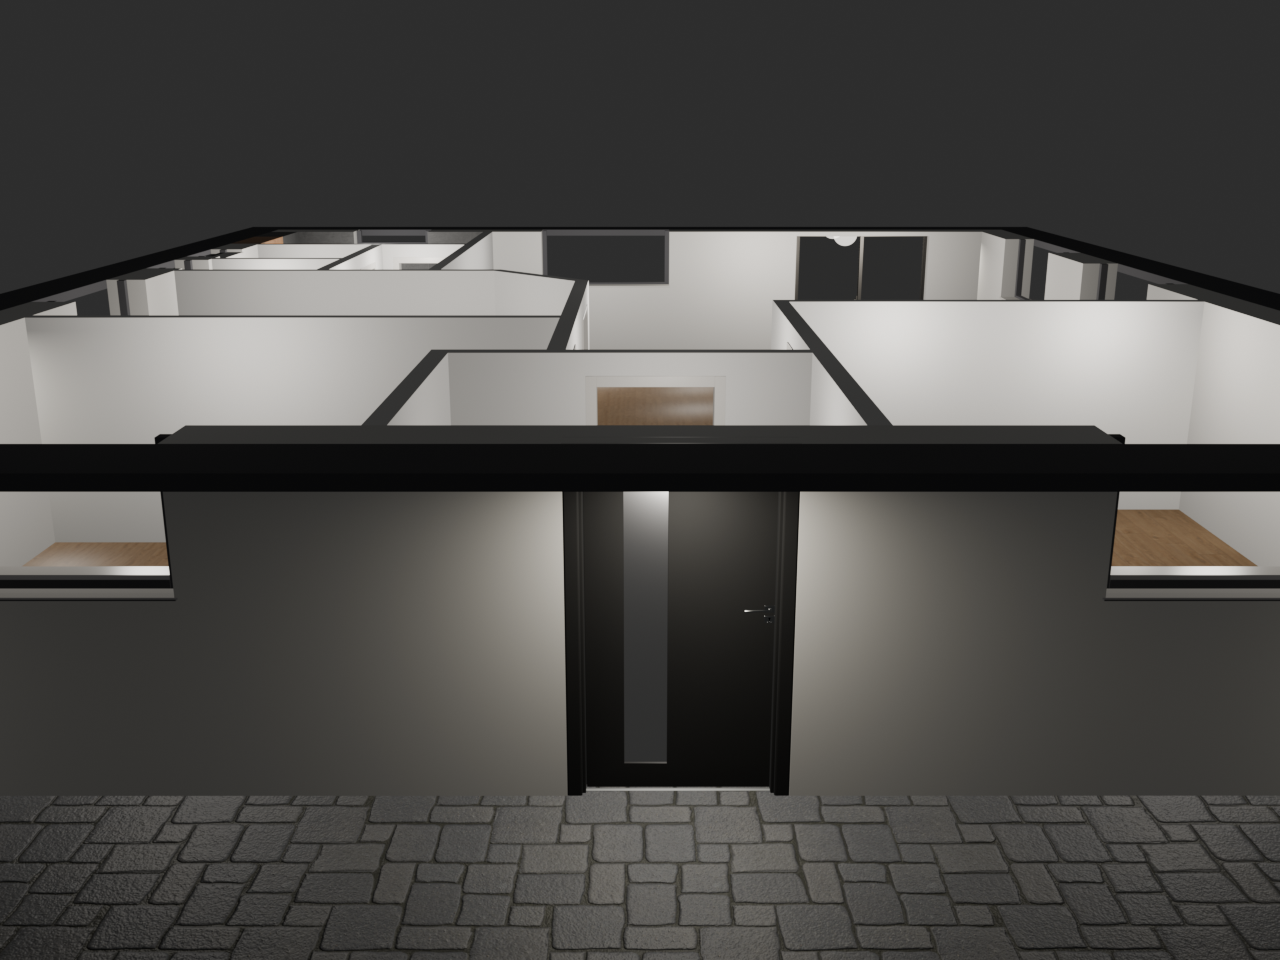
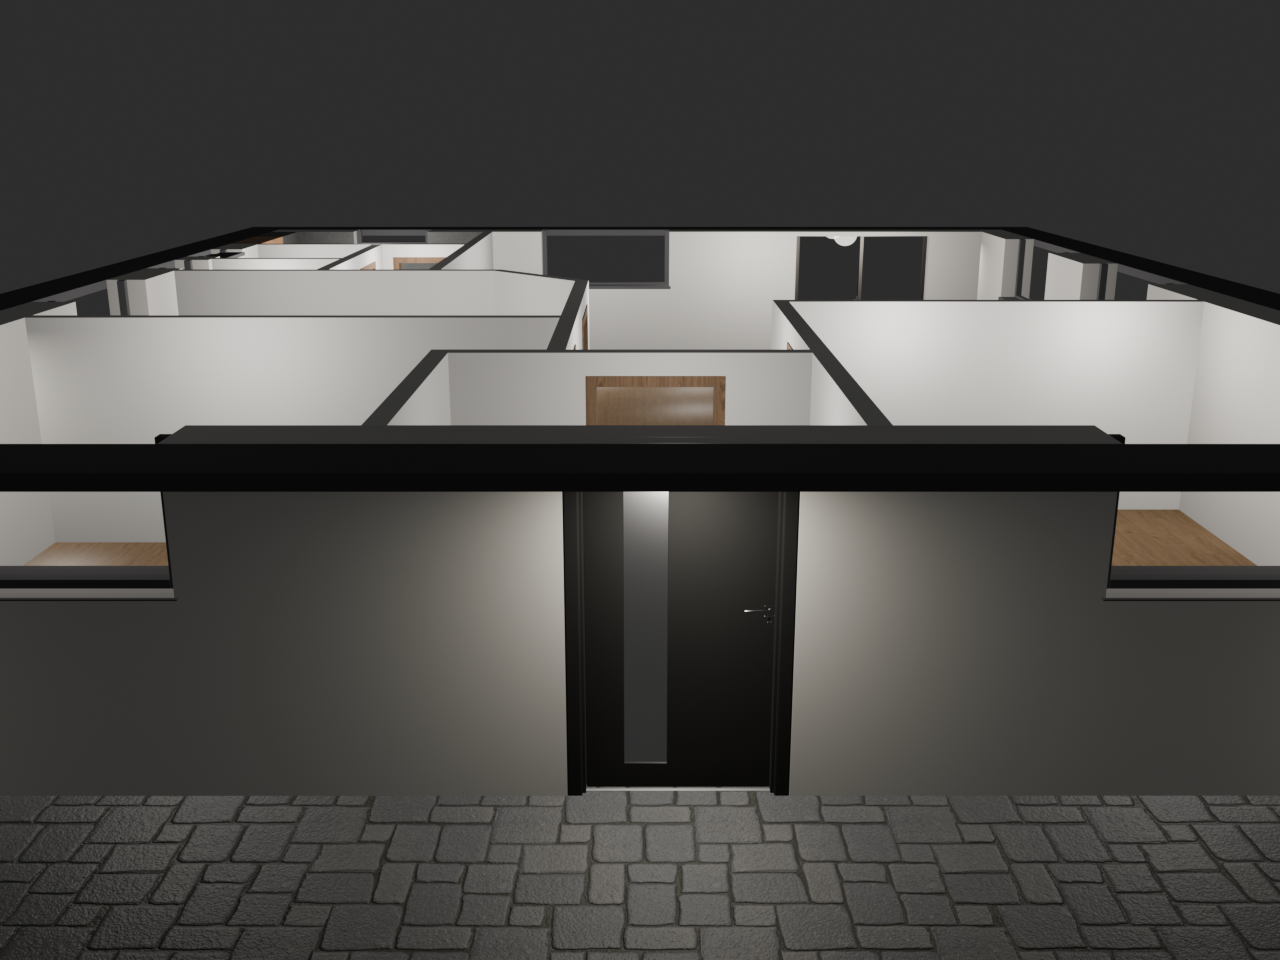
feat: set bathroom door lintel to grey tile and add interior sill noses in anthracite

diff --git a/update_sills_and_bathroom_lintel.py b/update_sills_and_bathroom_lintel.py
@@ -1,0 +1,344 @@
+"""
+update_sills_and_bathroom_lintel.py
+===================================
+1. Bathroom Door Lintel:
+   - Sets the bathroom-facing face (+Y normal at Y = 9.900, X in [2.050, 2.750], Z in [1.600, 1.800])
+     and top face (Z = 1.800) in 'Interior_Walls' to the grey bathroom tile material ('Material' / 'koupelna stena').
+   - Aligns UV mapping with surrounding bathroom walls.
+
+2. Window Frames & Sills with Interior Noses:
+   - Sets BOTH interior and exterior window sills to dark anthracite ('Mat_Roof_Soffit' matching roof atika).
+   - Models architectural downward sill noses (nos parapetu) on all 9 interior windowsills:
+     - Horizontal board thickness: 20 mm (Z in [Z_sill, Z_sill + 0.020])
+     - 25 mm overhang into room past interior wall face, 20 mm side ears
+     - Downward nose lip: 15 mm thick, hanging down 20 mm (Z in [Z_sill - 0.020, Z_sill])
+     - Creates classic 40 mm front profile fascia with realistic contact shadow
+   - Exterior sheet metal sill with 25 mm drip edge overhang in anthracite
+   - Open cutaway opening (0% glass, no dividing mullions)
+
+3. Renders verification views:
+   - View of bathroom doorway from inside bathroom
+   - Close-up interior view of window with sill nose
+   - South facade view
+   - East facade view
+   - Full floor plan overview
+"""
+
+import os
+import sys
+import math
+import bpy
+import bmesh
+from mathutils import Vector, Matrix
+
+def create_box(bm, x0, x1, y0, y1, z0, z1, mat_idx=0):
+    """Adds an axis-aligned box to bmesh."""
+    v = [
+        bm.verts.new((x0, y0, z0)), bm.verts.new((x1, y0, z0)),
+        bm.verts.new((x1, y1, z0)), bm.verts.new((x0, y1, z0)),
+        bm.verts.new((x0, y0, z1)), bm.verts.new((x1, y0, z1)),
+        bm.verts.new((x1, y1, z1)), bm.verts.new((x0, y1, z1)),
+    ]
+    faces_def = [
+        [v[0], v[1], v[2], v[3]],  # bottom
+        [v[4], v[7], v[6], v[5]],  # top
+        [v[0], v[4], v[5], v[1]],  # south
+        [v[2], v[6], v[7], v[3]],  # north
+        [v[0], v[3], v[7], v[4]],  # west
+        [v[1], v[5], v[6], v[2]],  # east
+    ]
+    for fv in faces_def:
+        f = bm.faces.new(fv)
+        f.material_index = mat_idx
+
+def build_window_frame_and_sills(bm, spec):
+    wall = spec['wall']
+    p0, p1 = spec['span']
+    z_sill = spec['z_sill']
+    z_top = spec['z_top']  # 1.800 m
+
+    h_total = z_top - z_sill
+    frame_d = 0.070    # 70 mm profile depth
+    frame_w = 0.060    # 60 mm jamb width
+    rail_h = min(0.045, h_total / 2.5)  # adaptive bottom rail height
+
+    # Parapet dimensions
+    ext_overhang = 0.025   # 25 mm exterior drip ledge
+    ext_sill_t = 0.008     # 8 mm exterior sheet thickness
+    ear_w = 0.020          # 20 mm side ears
+
+    int_overhang = 0.025   # 25 mm interior board overhang into room
+    board_t = 0.020        # 20 mm interior board thickness
+    nose_t = 0.015         # 15 mm thickness of front downward nose
+    nose_drop = 0.020      # 20 mm downward drop of nose below masonry sill
+
+    mat_anthracite = 0
+
+    if wall == 'S':
+        # South wall: normal -Y, ext Y=0.000, int Y=0.365
+        y_ext = 0.000
+        y_int = 0.365
+        y_f0 = 0.120
+        y_f1 = y_f0 + frame_d
+
+        # 1. Window Frame (Anthracite)
+        create_box(bm, p0, p0 + frame_w, y_f0, y_f1, z_sill, z_top, mat_idx=mat_anthracite)
+        create_box(bm, p1 - frame_w, p1, y_f0, y_f1, z_sill, z_top, mat_idx=mat_anthracite)
+        create_box(bm, p0 + frame_w, p1 - frame_w, y_f0, y_f1, z_sill, z_sill + rail_h, mat_idx=mat_anthracite)
+
+        # 2. Exterior Sill (Anthracite)
+        create_box(bm, p0 - ear_w, p1 + ear_w, y_ext - ext_overhang, y_f0 + 0.005, z_sill - ext_sill_t, z_sill, mat_idx=mat_anthracite)
+
+        # 3. Interior Sill with Downward Nose (Anthracite)
+        # Main horizontal board:
+        y_board_front = y_int + int_overhang  # 0.390 m
+        create_box(bm, p0 - ear_w, p1 + ear_w, y_f1 - 0.005, y_board_front, z_sill, z_sill + board_t, mat_idx=mat_anthracite)
+        # Downward front nose (hangs down in front of wall):
+        create_box(bm, p0 - ear_w, p1 + ear_w, y_board_front - nose_t, y_board_front, z_sill - nose_drop, z_sill, mat_idx=mat_anthracite)
+
+    elif wall == 'N':
+        # North wall: normal +Y, ext Y=12.000, int Y=11.635
+        y_ext = 12.000
+        y_int = 11.635
+        y_f1 = y_ext - 0.120
+        y_f0 = y_f1 - frame_d
+
+        # 1. Window Frame
+        create_box(bm, p0, p0 + frame_w, y_f0, y_f1, z_sill, z_top, mat_idx=mat_anthracite)
+        create_box(bm, p1 - frame_w, p1, y_f0, y_f1, z_sill, z_top, mat_idx=mat_anthracite)
+        create_box(bm, p0 + frame_w, p1 - frame_w, y_f0, y_f1, z_sill, z_sill + rail_h, mat_idx=mat_anthracite)
+
+        # 2. Exterior Sill
+        create_box(bm, p0 - ear_w, p1 + ear_w, y_f1 - 0.005, y_ext + ext_overhang, z_sill - ext_sill_t, z_sill, mat_idx=mat_anthracite)
+
+        # 3. Interior Sill with Downward Nose
+        y_board_front = y_int - int_overhang  # 11.610 m
+        create_box(bm, p0 - ear_w, p1 + ear_w, y_board_front, y_f0 + 0.005, z_sill, z_sill + board_t, mat_idx=mat_anthracite)
+        create_box(bm, p0 - ear_w, p1 + ear_w, y_board_front, y_board_front + nose_t, z_sill - nose_drop, z_sill, mat_idx=mat_anthracite)
+
+    elif wall == 'E':
+        # East wall: normal +X, ext X=10.000, int X=9.635
+        x_ext = 10.000
+        x_int = 9.635
+        x_f1 = x_ext - 0.120
+        x_f0 = x_f1 - frame_d
+
+        # 1. Window Frame
+        create_box(bm, x_f0, x_f1, p0, p0 + frame_w, z_sill, z_top, mat_idx=mat_anthracite)
+        create_box(bm, x_f0, x_f1, p1 - frame_w, p1, z_sill, z_top, mat_idx=mat_anthracite)
+        create_box(bm, x_f0, x_f1, p0 + frame_w, p1 - frame_w, z_sill, z_sill + rail_h, mat_idx=mat_anthracite)
+
+        # 2. Exterior Sill
+        create_box(bm, x_f1 - 0.005, x_ext + ext_overhang, p0 - ear_w, p1 + ear_w, z_sill - ext_sill_t, z_sill, mat_idx=mat_anthracite)
+
+        # 3. Interior Sill with Downward Nose
+        x_board_front = x_int - int_overhang  # 9.610 m
+        create_box(bm, x_board_front, x_f0 + 0.005, p0 - ear_w, p1 + ear_w, z_sill, z_sill + board_t, mat_idx=mat_anthracite)
+        create_box(bm, x_board_front, x_board_front + nose_t, p0 - ear_w, p1 + ear_w, z_sill - nose_drop, z_sill, mat_idx=mat_anthracite)
+
+    elif wall == 'W':
+        # West wall: normal -X, ext X=0.000, int X=0.365
+        x_ext = 0.000
+        x_int = 0.365
+        x_f0 = 0.120
+        x_f1 = x_f0 + frame_d
+
+        # 1. Window Frame
+        create_box(bm, x_f0, x_f1, p0, p0 + frame_w, z_sill, z_top, mat_idx=mat_anthracite)
+        create_box(bm, x_f0, x_f1, p1 - frame_w, p1, z_sill, z_top, mat_idx=mat_anthracite)
+        create_box(bm, x_f0, x_f1, p0 + frame_w, p1 - frame_w, z_sill, z_sill + rail_h, mat_idx=mat_anthracite)
+
+        # 2. Exterior Sill
+        create_box(bm, x_ext - ext_overhang, x_f0 + 0.005, p0 - ear_w, p1 + ear_w, z_sill - ext_sill_t, z_sill, mat_idx=mat_anthracite)
+
+        # 3. Interior Sill with Downward Nose
+        x_board_front = x_int + int_overhang  # 0.390 m
+        create_box(bm, x_f1 - 0.005, x_board_front, p0 - ear_w, p1 + ear_w, z_sill, z_sill + board_t, mat_idx=mat_anthracite)
+        create_box(bm, x_board_front - nose_t, x_board_front, p0 - ear_w, p1 + ear_w, z_sill - nose_drop, z_sill, mat_idx=mat_anthracite)
+
+def update_bathroom_lintel(blend_path):
+    iw = bpy.data.objects.get("Interior_Walls")
+    if not iw:
+        print("[WARN] Interior_Walls not found!")
+        return
+
+    # Material index for bathroom grey tile: slot 1 ('Material')
+    tile_mat_idx = 1
+    # Verify slot 1 has Concrete_Wall
+    m1 = iw.data.materials[1] if len(iw.data.materials) > 1 else None
+    print(f"[INFO] Interior_Walls slot 1 material: {m1.name if m1 else 'N/A'}")
+
+    # Door 111_110 bounds: X in [2.050, 2.750], Y in [9.775, 9.900], Z in [1.600, 1.800]
+    updated_faces = 0
+    for poly in iw.data.polygons:
+        c = poly.center
+        if 2.00 <= c.x <= 2.80 and 9.75 <= c.y <= 9.95:
+            # North face (+Y normal, facing into Bathroom 1.10) at Z in [1.60, 1.80]
+            if poly.normal.y > 0.8 and 1.55 <= c.z <= 1.85:
+                poly.material_index = tile_mat_idx
+                updated_faces += 1
+                print(f"  Updated North lintel face at ({c.x:.3f}, {c.y:.3f}, {c.z:.3f}) -> slot {tile_mat_idx}")
+            # Top face (+Z normal) at Z = 1.800
+            elif poly.normal.z > 0.8 and c.z >= 1.78:
+                poly.material_index = tile_mat_idx
+                updated_faces += 1
+                print(f"  Updated Top lintel face at ({c.x:.3f}, {c.y:.3f}, {c.z:.3f}) -> slot {tile_mat_idx}")
+
+    iw.data.update()
+    print(f"[OK] Bathroom door lintel updated: {updated_faces} faces set to grey tile '{m1.name}'.")
+
+def update_window_frames_and_sills(blend_path):
+    windows_specs = [
+        # South facade
+        {'id': 'W1_South_106', 'wall': 'S', 'span': (1.300, 2.800), 'z_sill': 1.050, 'z_top': 1.800},
+        {'id': 'W1_South_105', 'wall': 'S', 'span': (7.200, 8.700), 'z_sill': 1.050, 'z_top': 1.800},
+        # East facade
+        {'id': 'W2_East_South_104', 'wall': 'E', 'span': (5.900, 7.640), 'z_sill': 1.200, 'z_top': 1.800},
+        {'id': 'W2_East_North_104', 'wall': 'E', 'span': (8.780, 10.520), 'z_sill': 1.050, 'z_top': 1.800},
+        # North facade
+        {'id': 'W4_North_103', 'wall': 'N', 'span': (3.660, 5.400), 'z_sill': 1.050, 'z_top': 1.800},
+        {'id': 'W5_North_110', 'wall': 'N', 'span': (1.120, 2.120), 'z_sill': 1.600, 'z_top': 1.800},
+        # West facade
+        {'id': 'W6_West_Tech_109', 'wall': 'W', 'span': (8.375, 9.175), 'z_sill': 1.750, 'z_top': 1.800},
+        {'id': 'W6_West_WC_108', 'wall': 'W', 'span': (7.200, 8.000), 'z_sill': 1.600, 'z_top': 1.800},
+        {'id': 'W05_West_107', 'wall': 'W', 'span': (4.725, 6.225), 'z_sill': 0.900, 'z_top': 1.800},
+    ]
+
+    mat_anthracite = bpy.data.materials.get("Mat_Roof_Soffit")
+    if not mat_anthracite:
+        mat_anthracite = bpy.data.materials.new("Mat_Roof_Soffit")
+        mat_anthracite.use_nodes = True
+        bsdf = mat_anthracite.node_tree.nodes.get("Principled BSDF")
+        if bsdf:
+            bsdf.inputs["Base Color"].default_value = (0.12, 0.12, 0.13, 1.0)
+            bsdf.inputs["Roughness"].default_value = 0.50
+
+    obj_name = "Window_Frames_and_Sills"
+    if obj_name in bpy.data.objects:
+        bpy.data.objects.remove(bpy.data.objects[obj_name], do_unlink=True)
+    if obj_name in bpy.data.meshes:
+        bpy.data.meshes.remove(bpy.data.meshes[obj_name])
+
+    print("[INFO] Constructing Window_Frames_and_Sills with anthracite sills and downward noses...")
+    mesh = bpy.data.meshes.new(obj_name)
+    bm = bmesh.new()
+
+    for spec in windows_specs:
+        build_window_frame_and_sills(bm, spec)
+
+    bmesh.ops.remove_doubles(bm, verts=bm.verts, dist=0.0005)
+    bmesh.ops.recalc_face_normals(bm, faces=bm.faces)
+    bm.to_mesh(mesh)
+    bm.free()
+
+    obj = bpy.data.objects.new(obj_name, mesh)
+    bpy.context.scene.collection.objects.link(obj)
+
+    # Material: All anthracite (frames, exterior sills, interior sills with noses)
+    obj.data.materials.append(mat_anthracite)
+
+    # Bevel modifier for crisp architectural highlights
+    mod_b = obj.modifiers.new(name="Bevel", type='BEVEL')
+    mod_b.width = 0.002
+    mod_b.segments = 2
+    mod_b.limit_method = 'ANGLE'
+    mod_b.angle_limit = math.radians(45)
+    mod_b.harden_normals = True
+
+    print(f"[OK] {obj_name} created with anthracite sills and interior noses.")
+
+def main():
+    blend_path = os.path.abspath("dum_pudorys.blend")
+    print(f"Opening: {blend_path}")
+    bpy.ops.wm.open_mainfile(filepath=blend_path)
+
+    # 1. Update Bathroom Door Lintel
+    update_bathroom_lintel(blend_path)
+
+    # 2. Update Window Frames and Sills with Interior Noses
+    update_window_frames_and_sills(blend_path)
+
+    # Preserve Isometric_Camera
+    iso_cam = bpy.data.objects.get("Isometric_Camera")
+    if iso_cam:
+        bpy.context.scene.camera = iso_cam
+
+    # Save updated blend file
+    bpy.ops.wm.save_mainfile()
+    print(f"[OK] Saved '{blend_path}'.")
+
+    # Render verification views
+    render_verification_views(iso_cam)
+
+def render_verification_views(iso_cam):
+    scene = bpy.context.scene
+    scene.render.image_settings.file_format = 'PNG'
+
+    # View 1: Bathroom doorway view from inside bathroom 1.10 looking at door 111_110 and lintel
+    c1_data = bpy.data.cameras.new("Cam_Bath_Door_Lintel")
+    c1 = bpy.data.objects.new("Cam_Bath_Door_Lintel", c1_data)
+    scene.collection.objects.link(c1)
+    c1.location = Vector((2.4, 11.2, 1.4))
+    c1.rotation_euler = (Vector((2.4, 9.8, 1.4)) - c1.location).to_track_quat('-Z', 'Y').to_euler()
+    c1_data.type = 'PERSP'
+    c1_data.lens = 32
+    scene.camera = c1
+    scene.render.resolution_x = 1280
+    scene.render.resolution_y = 960
+    scene.render.filepath = os.path.abspath("bathroom_door_lintel_view.png")
+    bpy.ops.render.render(write_still=True)
+    print("Rendered: bathroom_door_lintel_view.png")
+
+    # View 2: Interior close-up of windowsill with downward nose in room 1.05
+    c2_data = bpy.data.cameras.new("Cam_Win_Sill_Nose")
+    c2 = bpy.data.objects.new("Cam_Win_Sill_Nose", c2_data)
+    scene.collection.objects.link(c2)
+    c2.location = Vector((7.0, 1.2, 1.35))
+    c2.rotation_euler = (Vector((7.95, 0.365, 1.05)) - c2.location).to_track_quat('-Z', 'Y').to_euler()
+    c2_data.type = 'PERSP'
+    c2_data.lens = 45
+    scene.camera = c2
+    scene.render.resolution_x = 1280
+    scene.render.resolution_y = 960
+    scene.render.filepath = os.path.abspath("window_interior_sill_nose_view.png")
+    bpy.ops.render.render(write_still=True)
+    print("Rendered: window_interior_sill_nose_view.png")
+
+    # View 3: South facade perspective
+    c3_data = bpy.data.cameras.new("Cam_Win_South")
+    c3 = bpy.data.objects.new("Cam_Win_South", c3_data)
+    scene.collection.objects.link(c3)
+    c3.location = Vector((5.0, -5.5, 3.2))
+    c3.rotation_euler = (Vector((5.0, 1.5, 1.2)) - c3.location).to_track_quat('-Z', 'Y').to_euler()
+    c3_data.type = 'PERSP'
+    c3_data.lens = 35
+    scene.camera = c3
+    scene.render.resolution_x = 1280
+    scene.render.resolution_y = 960
+    scene.render.filepath = os.path.abspath("window_south_view.png")
+    bpy.ops.render.render(write_still=True)
+    print("Rendered: window_south_view.png")
+
+    # View 4: Full isometric overview
+    if iso_cam:
+        scene.camera = iso_cam
+        scene.render.resolution_x = 1920
+        scene.render.resolution_y = 1080
+        scene.render.filepath = os.path.abspath("dum_pudorys_overview.png")
+        bpy.ops.render.render(write_still=True)
+        print("Rendered: dum_pudorys_overview.png")
+
+    # Clean up temporary cameras
+    for c in [c1, c2, c3]:
+        bpy.data.objects.remove(c, do_unlink=True)
+    for cd in [c1_data, c2_data, c3_data]:
+        bpy.data.cameras.remove(cd)
+
+    if iso_cam:
+        scene.camera = iso_cam
+
+    bpy.ops.wm.save_mainfile()
+    print("Cleaned up temporary cameras and resaved main blend file.")
+
+if __name__ == "__main__":
+    main()

diff --git a/BUILD_SPECIFICATION_1TO1.md b/BUILD_SPECIFICATION_1TO1.md
@@ -103,14 +103,15 @@ Všech 9 oken obvodových stěn je osazeno čistými obvodovými rámy a oboustr
    - **Šířka bočních vlysů (jambs)**: $60\text{ mm}$ ($0.060\text{ m}$), stoupající od parapetu do řezové výšky $Z = 1.800\text{ m}$, kde lícuje se stěnou.
    - **Spodní vlys (rail)**: Výška $45\text{ mm}$ ležící na parapetním zdivu.
    - **Vnitřek otvoru**: Zcela volný (bez skla a bez příček).
+   - **Materiál**: `Mat_Roof_Soffit` (antracitový `#1E1E20`, RAL 7016, roughness 0.50).
 2. **Venkovní plechový parapet**:
-   - Sedí na vnější části parapetního zdiva od rámu ven s přesahem $25\text{ mm}$ před omítku a bočními lemy ($15\text{ mm}$ uši).
+   - Sedí na vnější části parapetního zdiva od rámu ven s přesahem $25\text{ mm}$ před omítku a bočními lemy ($20\text{ mm}$ uši).
    - Tloušťka plechu $8\text{ mm}$.
-   - Materiál: `Mat_Roof_Soffit` (antracitový `#1E1E20`, RAL 7016, roughness 0.50) – 100% shodný s horní střešní atikou (`Roof_Soffit_Cornice`).
-3. **Vnitřní parapetní deska**:
-   - Sedí na vnitřní části zdiva od rámu do místnosti s přesahem $15\text{ mm}$ do interiéru a bočními přesahy $15\text{ mm}$.
-   - Tloušťka desky $20\text{ mm}$.
-   - Materiál: `Mat_Interior_Door_Frame` (bílý saténový lak `#F2F0EC`, roughness 0.30).
+   - Materiál: `Mat_Roof_Soffit` (antracitový plech ladící s atikou).
+3. **Vnitřní parapetní deska s nosem (Interior Sill with Downward Nose)**:
+   - **Materiál**: `Mat_Roof_Soffit` (antracitový materiál ladící s vnějším parapetem i atikou).
+   - **Horizontální deska**: Tloušťka $20\text{ mm}$ ($Z \in [Z_{\text{sill}}, Z_{\text{sill}} + 0.020]\text{ m}$), vyložená $25\text{ mm}$ před líc vnitřní omítky do místnosti s bočními přesahy $20\text{ mm}$.
+   - **Převislý nos parapetu (lip / apron)**: Šířka $15\text{ mm}$ na čele desky, spuštěný o $20\text{ mm}$ dolů ($Z \in [Z_{\text{sill}} - 0.020, Z_{\text{sill}}]\text{ m}$), vytvářející klasický $40\text{ mm}$ vysoký čelní profil s reálným vrženým stínem na stěnu pod oknem.
 4. **Zkosení hran**: Modifikátor `Bevel` $2\text{ mm}$ s úhlem $45^\circ$ a vytvrzenými normálami (`harden_normals = True`).
 
 ### 3.2 Konstrukční usazení vchodových dveří a eliminace mezer
@@ -207,6 +208,7 @@ V koupelně (místnost 1.10) jsou stěny rozděleny na dva samostatné materiál
 - **Jižní vnitřní příčka**:
   - Sprchový kout: $X \in [0.365, 1.368]\text{ m}$ $\to$ `Plank stena`.
   - Koupelnový obklad: $X \in [1.368, 2.050]\text{ m}$ a ostění $X \in [2.750, 2.875]\text{ m}$ $\to$ `koupelna stena`.
+  - **Překlad dveří 1.11 -> 1.10**: Severní plocha překladu facing do koupelny ($X \in [2.050, 2.750]\text{ m}$, $Y = 9.900\text{ m}$, $Z \in [1.600, 1.800]\text{ m}$) a horní hrana ($Z = 1.800\text{ m}$) $\to$ `koupelna stena` / `Material` se spojitým UV mapováním navazujícím na okolní stěny.
 
 ### 5.2 Klíčová oprava vizuálních bugů (Bílé linky a trhliny na hranách)
 Bílé linky na přechodu obkladů a horních hranách vznikaly ze dvou příčin:
